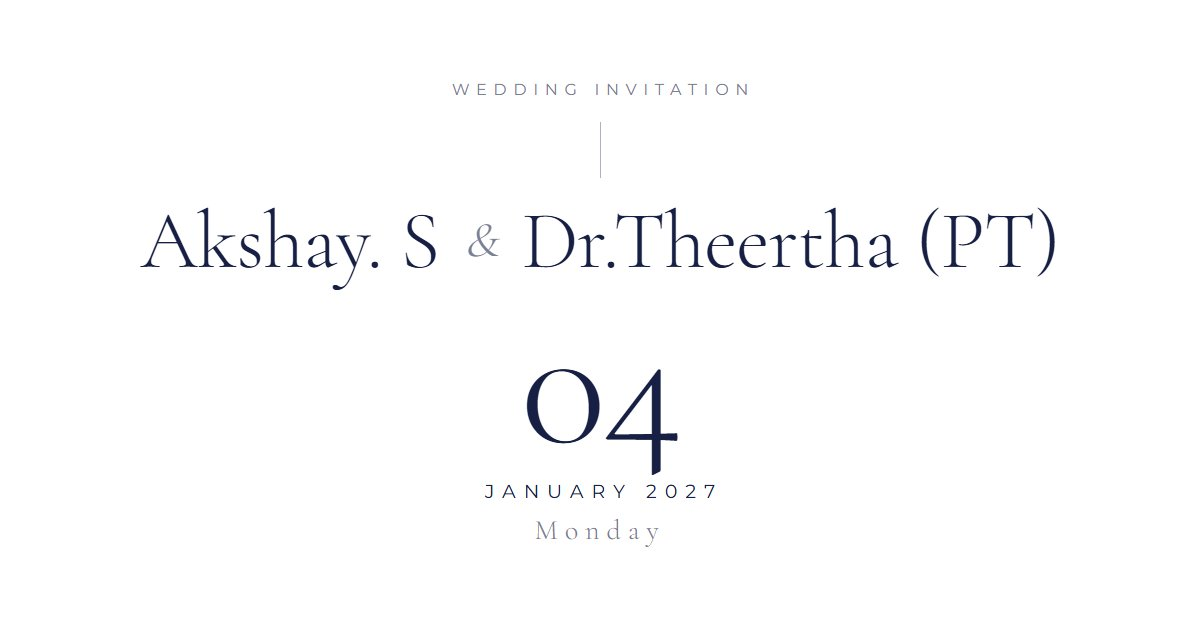
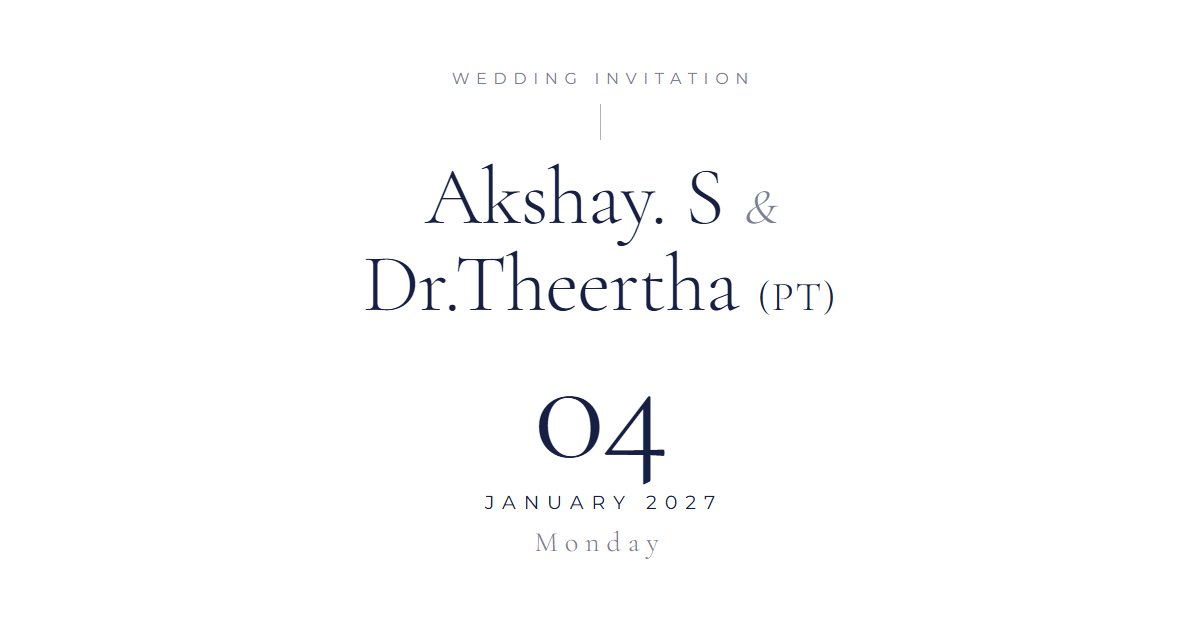
Update wedding invitation

diff --git a/css/style.css b/css/style.css
@@ -58,6 +58,7 @@ a{color:inherit}
 .hero .wrap{width:100%;margin:0 auto}
 .names{font:300 clamp(34px,12vw,60px)/1.05 var(--serif);letter-spacing:-.01em;display:flex;flex-direction:column;align-items:center}
 .names span{white-space:nowrap}
+.names small{font-size:.5em;letter-spacing:.04em;text-transform:uppercase}
 .names em{font:italic 300 .6em/1 var(--serif);color:var(--taupe);margin:4px 0}
 @media(min-width:720px){.names{font-size:clamp(50px,7.5vw,76px);flex-direction:row;justify-content:center;gap:.3em}.names em{margin:0}}
 .date-line{font:400 clamp(12px,3.4vw,15px)/1.4 var(--sans);letter-spacing:.42em;text-transform:uppercase;margin-top:8px;padding-left:.42em}
@@ -226,16 +227,16 @@ body{background:#fff}
 .page-cd{height:auto;min-height:0}
 .page-cd .frame{position:relative;left:auto;bottom:auto;transform:none;margin:0 auto;aspect-ratio:1080/1480}
 .page-cd .pg-img{object-position:center bottom}
-.p1-count{left:0;right:0;top:3%;text-align:center;margin:0}
-.p1-eyebrow{font:700 clamp(16px,5.2cqw,32px)/1.3 var(--serif);color:var(--ink)}
-.cd-line{display:flex;align-items:center;justify-content:center;gap:2.6cqw;margin:3cqw 0;font:700 clamp(32px,11cqw,64px)/1 var(--serif);color:var(--ink);font-variant-numeric:lining-nums tabular-nums}
+.p1-count{left:0;right:0;top:calc(3% + 60px);text-align:center;margin:0}
+.p1-eyebrow{font:400 clamp(12px,3.4vw,15px)/1.4 var(--sans);letter-spacing:.14em;padding-left:.14em;text-transform:uppercase;color:var(--ink)}
+.cd-line{display:flex;align-items:center;justify-content:center;gap:2.6cqw;margin:3cqw 0;font:400 clamp(12px,3.4vw,15px)/1.4 var(--sans);letter-spacing:.42em;color:var(--ink);font-variant-numeric:tabular-nums}
 .cd-line[hidden]{display:none}
-.cd-line b{font-weight:700}
-.cd-line i{font-style:normal;font-weight:400;transform:scaleY(1.15)}
+.cd-line b{font-weight:400;margin-right:-.42em}
+.cd-line i{font-style:normal;font-weight:400;letter-spacing:0;transform:scaleY(1.15)}
 .cd-n{display:inline-block}
 .cd-n u{position:absolute;width:1px;height:1px;overflow:hidden;clip:rect(0 0 0 0);text-decoration:none}
-.p1-until{font:700 clamp(16px,5.2cqw,32px)/1.3 var(--serif);color:var(--ink);letter-spacing:0;text-transform:none;padding:0;margin:0}
-.p1-count .cd-msg{color:var(--ink);font:700 clamp(20px,6cqw,36px)/1.3 var(--serif);padding:0 8cqw;margin:3cqw 0}
+.p1-until{font:400 clamp(12px,3.4vw,15px)/1.4 var(--sans);color:var(--ink);letter-spacing:.14em;text-transform:uppercase;padding:0 0 0 .14em;margin:0}
+.p1-count .cd-msg{color:var(--ink);font:400 clamp(12px,3.4vw,15px)/1.6 var(--sans);letter-spacing:.14em;text-transform:uppercase;padding:0 8cqw;margin:3cqw 0}
 .p1-count.done .p1-until{display:none}
 
 /* page 2: invitation message */

diff --git a/index.html b/index.html
@@ -19,7 +19,7 @@
 <meta name="twitter:image" content="https://akshay-theertha.vercel.app/assets/images/og-image.jpg?v=2">
 <link rel="preconnect" href="https://fonts.googleapis.com">
 <link rel="preconnect" href="https://fonts.gstatic.com" crossorigin>
-<link href="https://fonts.googleapis.com/css2?family=Allura&family=Cormorant+Garamond:ital,wght@0,300;0,400;0,500;0,700;1,300;1,400&family=Montserrat:wght@300;400&display=swap" rel="stylesheet">
+<link href="https://fonts.googleapis.com/css2?family=Allura&family=Cormorant+Garamond:ital,wght@0,300;0,400;0,500;1,300;1,400&family=Montserrat:wght@300;400&display=swap" rel="stylesheet">
 <link rel="stylesheet" href="css/style.css">
 </head>
 <body class="intro-active">
@@ -31,7 +31,7 @@
   <div class="wrap center">
     <p class="eyebrow reveal">Wedding Invitation</p>
     <span class="vline reveal" aria-hidden="true"></span>
-    <h1 class="names reveal"><span>Akshay. S</span><em>&amp;</em><span>Dr.Theertha (PT)</span></h1>
+    <h1 class="names reveal"><span>Akshay. S</span><em>&amp;</em><span>Dr.Theertha <small>(PT)</small></span></h1>
     <p class="big-day reveal" aria-label="04">04</p>
     <p class="date-line reveal">January 2027</p>
     <p class="weekday reveal">Monday</p>
